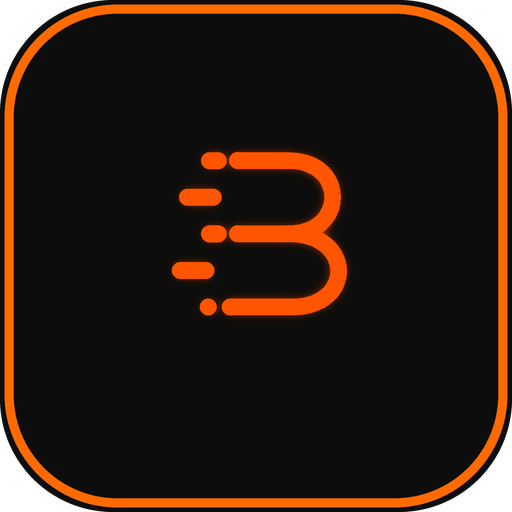
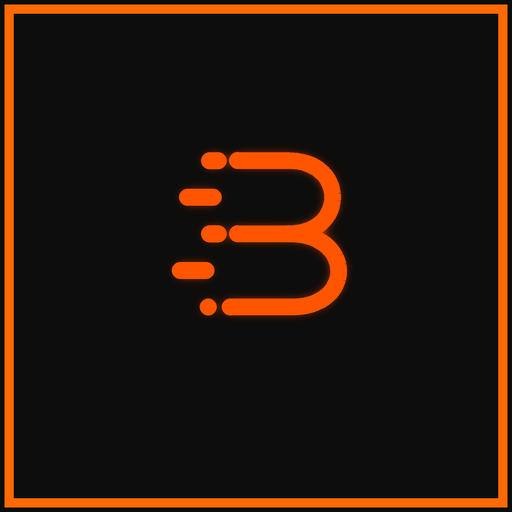
fix(booster): icono sin esquinas redondeadas -- negro completo hasta el borde
A pedido de Alberto (18-ago-2026): con esquinas redondeadas se veia la
tarjeta blanca del grid de apps de Odoo por detras justo en las 4
esquinas. Cambiado a un cuadrado sin redondear, borde a borde -- el
negro llega hasta el limite completo del icono, sin ningun hueco.
Verificado en vivo en el grid real de Odoo tras reinstalar.

diff --git a/booster/assets/generar_icono.py b/booster/assets/generar_icono.py
@@ -90,18 +90,17 @@ def construir_icono():
     tam_render = LADO_FINAL * ESCALA
     lienzo = Image.new("RGBA", (tam_render, tam_render), (0, 0, 0, 0))
 
-    # Tile redondeado oscuro (mismo look que un icono de app real: fondo
-    # solido, esquinas redondeadas, borde naranja para distinguirse).
-    radio_tile = round(tam_render * 0.22)
+    # Tile oscuro SIN esquinas redondeadas (a pedido de Alberto,
+    # 18-ago-2026): con esquinas redondeadas, la tarjeta blanca del grid
+    # de apps de Odoo se veia por detras justo en las 4 esquinas -- un
+    # cuadrado negro completo, de borde a borde, elimina ese hueco por
+    # completo. Borde naranja de marca alrededor, igual que antes.
     grosor_borde = round(tam_render * 0.018)
     tile = Image.new("RGBA", (tam_render, tam_render), (0, 0, 0, 0))
     draw_tile = ImageDraw.Draw(tile)
-    draw_tile.rounded_rectangle(
-        [0, 0, tam_render - 1, tam_render - 1], radius=radio_tile, fill=NEGRO_TILE
-    )
-    draw_tile.rounded_rectangle(
+    draw_tile.rectangle([0, 0, tam_render - 1, tam_render - 1], fill=NEGRO_TILE)
+    draw_tile.rectangle(
         [grosor_borde // 2, grosor_borde // 2, tam_render - 1 - grosor_borde // 2, tam_render - 1 - grosor_borde // 2],
-        radius=radio_tile,
         outline=BORDE_NARANJA,
         width=grosor_borde,
     )
